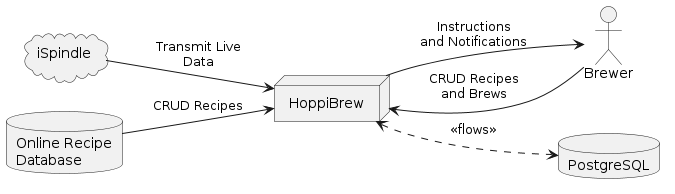
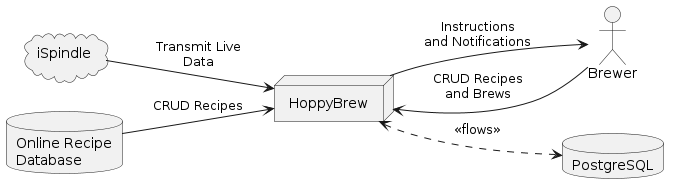
Update

diff --git a/documents/docs/00-HoppyBrew.md b/documents/docs/00-HoppyBrew.md
@@ -42,7 +42,6 @@ The top three quality goals for the architecture and design, whose fulfillment i
 
 These quality goals are derived from the `ISO/IEC 25010 quality model` as referenced in [@arc42](https://arc42.org). The quality requirements will be further detailed in section 10, "Quality Requirements," of this document.
 
-
 ## Stakeholders
 
 In the architecture and design process of HoppyBrew, stakeholders play a pivotal role, providing essential requirements and constraints. Given that this project is part of a school assignment, the stakeholders are limited to the following individuals and their expectations:
@@ -239,14 +238,14 @@ cloud iSpindle
 actor Brewer
 database "Online Recipe\nDatabase" as RecipeDB
 
-node "HoppiBrew" as HoppiBrew
+node "HoppyBrew" as HoppyBrew
 database "PostgreSQL" as PostgreSQL
 
-RecipeDB --> HoppiBrew : CRUD Recipes
-iSpindle --> HoppiBrew : Transmit Live\nData
-Brewer --> HoppiBrew : CRUD Recipes\nand Brews
-HoppiBrew <..> PostgreSQL : <<flows>>
-HoppiBrew --> Brewer : Instructions\nand Notifications
+RecipeDB --> HoppyBrew : CRUD Recipes
+iSpindle --> HoppyBrew : Transmit Live\nData
+Brewer --> HoppyBrew : CRUD Recipes\nand Brews
+HoppyBrew <..> PostgreSQL : <<flows>>
+HoppyBrew --> Brewer : Instructions\nand Notifications
 @enduml
     </code>
 </pre>

diff --git a/documents/docs/chapters/04_System_Scope_and_Context.md b/documents/docs/chapters/04_System_Scope_and_Context.md
@@ -14,14 +14,14 @@ cloud iSpindle
 actor Brewer
 database "Online Recipe\nDatabase" as RecipeDB
 
-node "HoppiBrew" as HoppiBrew
+node "HoppyBrew" as HoppyBrew
 database "PostgreSQL" as PostgreSQL
 
-RecipeDB --> HoppiBrew : CRUD Recipes
-iSpindle --> HoppiBrew : Transmit Live\nData
-Brewer --> HoppiBrew : CRUD Recipes\nand Brews
-HoppiBrew <..> PostgreSQL : <<flows>>
-HoppiBrew --> Brewer : Instructions\nand Notifications
+RecipeDB --> HoppyBrew : CRUD Recipes
+iSpindle --> HoppyBrew : Transmit Live\nData
+Brewer --> HoppyBrew : CRUD Recipes\nand Brews
+HoppyBrew <..> PostgreSQL : <<flows>>
+HoppyBrew --> Brewer : Instructions\nand Notifications
 @enduml
     </code>
 </pre>

diff --git a/documents/docs/chapters/01_Introduction_and_Goals.md b/documents/docs/chapters/01_Introduction_and_Goals.md
@@ -42,7 +42,6 @@ The top three quality goals for the architecture and design, whose fulfillment i
 
 These quality goals are derived from the `ISO/IEC 25010 quality model` as referenced in [@arc42](https://arc42.org). The quality requirements will be further detailed in section 10, "Quality Requirements," of this document.
 
-
 ## Stakeholders
 
 In the architecture and design process of HoppyBrew, stakeholders play a pivotal role, providing essential requirements and constraints. Given that this project is part of a school assignment, the stakeholders are limited to the following individuals and their expectations:
